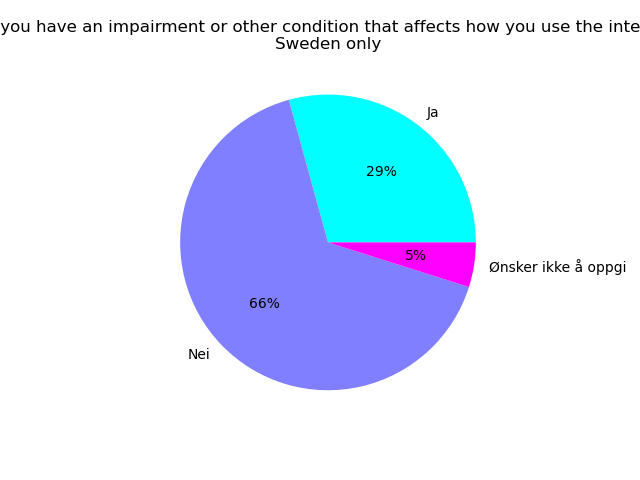
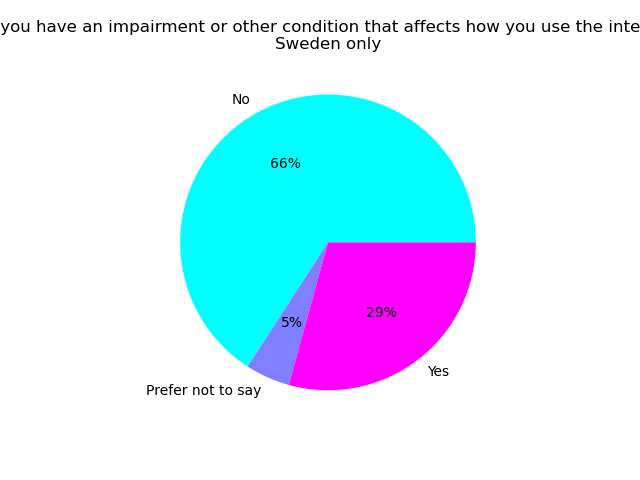
Added translation for funksjonsnedsettelse type. -
Recomputed charts.

diff --git a/survey/config.py b/survey/config.py
@@ -808,7 +808,7 @@ kjonn_en = {
 bool_en = {
    "Ja": "Yes",
    "Nei": "No",
-   "Onsker ikke å oppgi": "Prefer not to say"
+   "Ønsker ikke å oppgi": "Prefer not to say"
    }
 
 vanskelighetsgrad_en = {
@@ -820,11 +820,10 @@ vanskelighetsgrad_en = {
    5: "5 - Very difficult" 
    }
 
-funksjonsnedsettelser_type_en = {
+funksjonsnedsettelse_type_en = {
    "hørsel": "hearing",
    "kognisjon": "cognition",
    "mobilitet": "mobility",
-   "motor": "motor",
    "motorikk": "motor",
    "syn": "vision",
    "syn (blind)": "vision (blind)",
@@ -852,7 +851,8 @@ lookup_en = {
    "answers-repl": {
       "alder": alder_en,
       "kjonn": kjonn_en,
-      #"funksjonsnedsettelse-type-kode": funksjonsnedsettelser_type_en,
+      "funksjonsnedsettelse": bool_en,
+      "funksjonsnedsettelse-type-kode": funksjonsnedsettelse_type_en,
       "internettvaner": internettvaner_en,
       "default-valg": {
          "Jeg ignorerer dem.": "Ignore",
@@ -860,7 +860,6 @@ lookup_en = {
          "Jeg avviser alle cookies, hvis mulig.": "Reject",
          "Jeg leser informasjonsteksten og deretter bestemmer jeg hva jeg skal avvise eller akseptere.": "Adjust"
          },
-      #"funksjonsnedsettelse": bool_en,
       "vanskelighetsgrad-generell": vanskelighetsgrad_en,
       "vanskelighetsgrad-tekst": vanskelighetsgrad_en,
       "vanskelighetsgrad-valg": vanskelighetsgrad_en,

diff --git a/RESULTS-ALL_EN.md b/RESULTS-ALL_EN.md
@@ -32,9 +32,9 @@ Non-Binary      4
 ```
                       funksjonsnedsettelse
 funksjonsnedsettelse                      
-Ja                                      36
-Nei                                    112
-Ønsker ikke å oppgi                      3
+No                                     112
+Prefer not to say                        3
+Yes                                     36
 ```
 
 ## 9. Describe your impairment or condition. It is related to … (All countries combined)
@@ -44,13 +44,13 @@ Nei                                    112
 ```
                                 funksjonsnedsettelse-type-kode
 funksjonsnedsettelse-type-kode                                
-hørsel                                                       3
-kognisjon                                                   14
-mobilitet                                                    6
-motorikk                                                     7
-syn                                                          7
-syn (blind)                                                  7
-ubestemt                                                     1
+cognition                                                   14
+hearing                                                      3
+mobility                                                     6
+motor                                                        7
+unknown                                                      1
+vision                                                       7
+vision (blind)                                               7
 ```
 
 ## 4. How often do you use the internet? (All countries combined)

diff --git a/RESULTS-SE_EN.md b/RESULTS-SE_EN.md
@@ -50,9 +50,9 @@ Male       12
 ```
                       funksjonsnedsettelse
 funksjonsnedsettelse                      
-Ja                                      12
-Nei                                     27
-Ønsker ikke å oppgi                      2
+No                                      27
+Prefer not to say                        2
+Yes                                     12
 ```
 
 ## 40. How often do you use the internet? (Sweden only)
